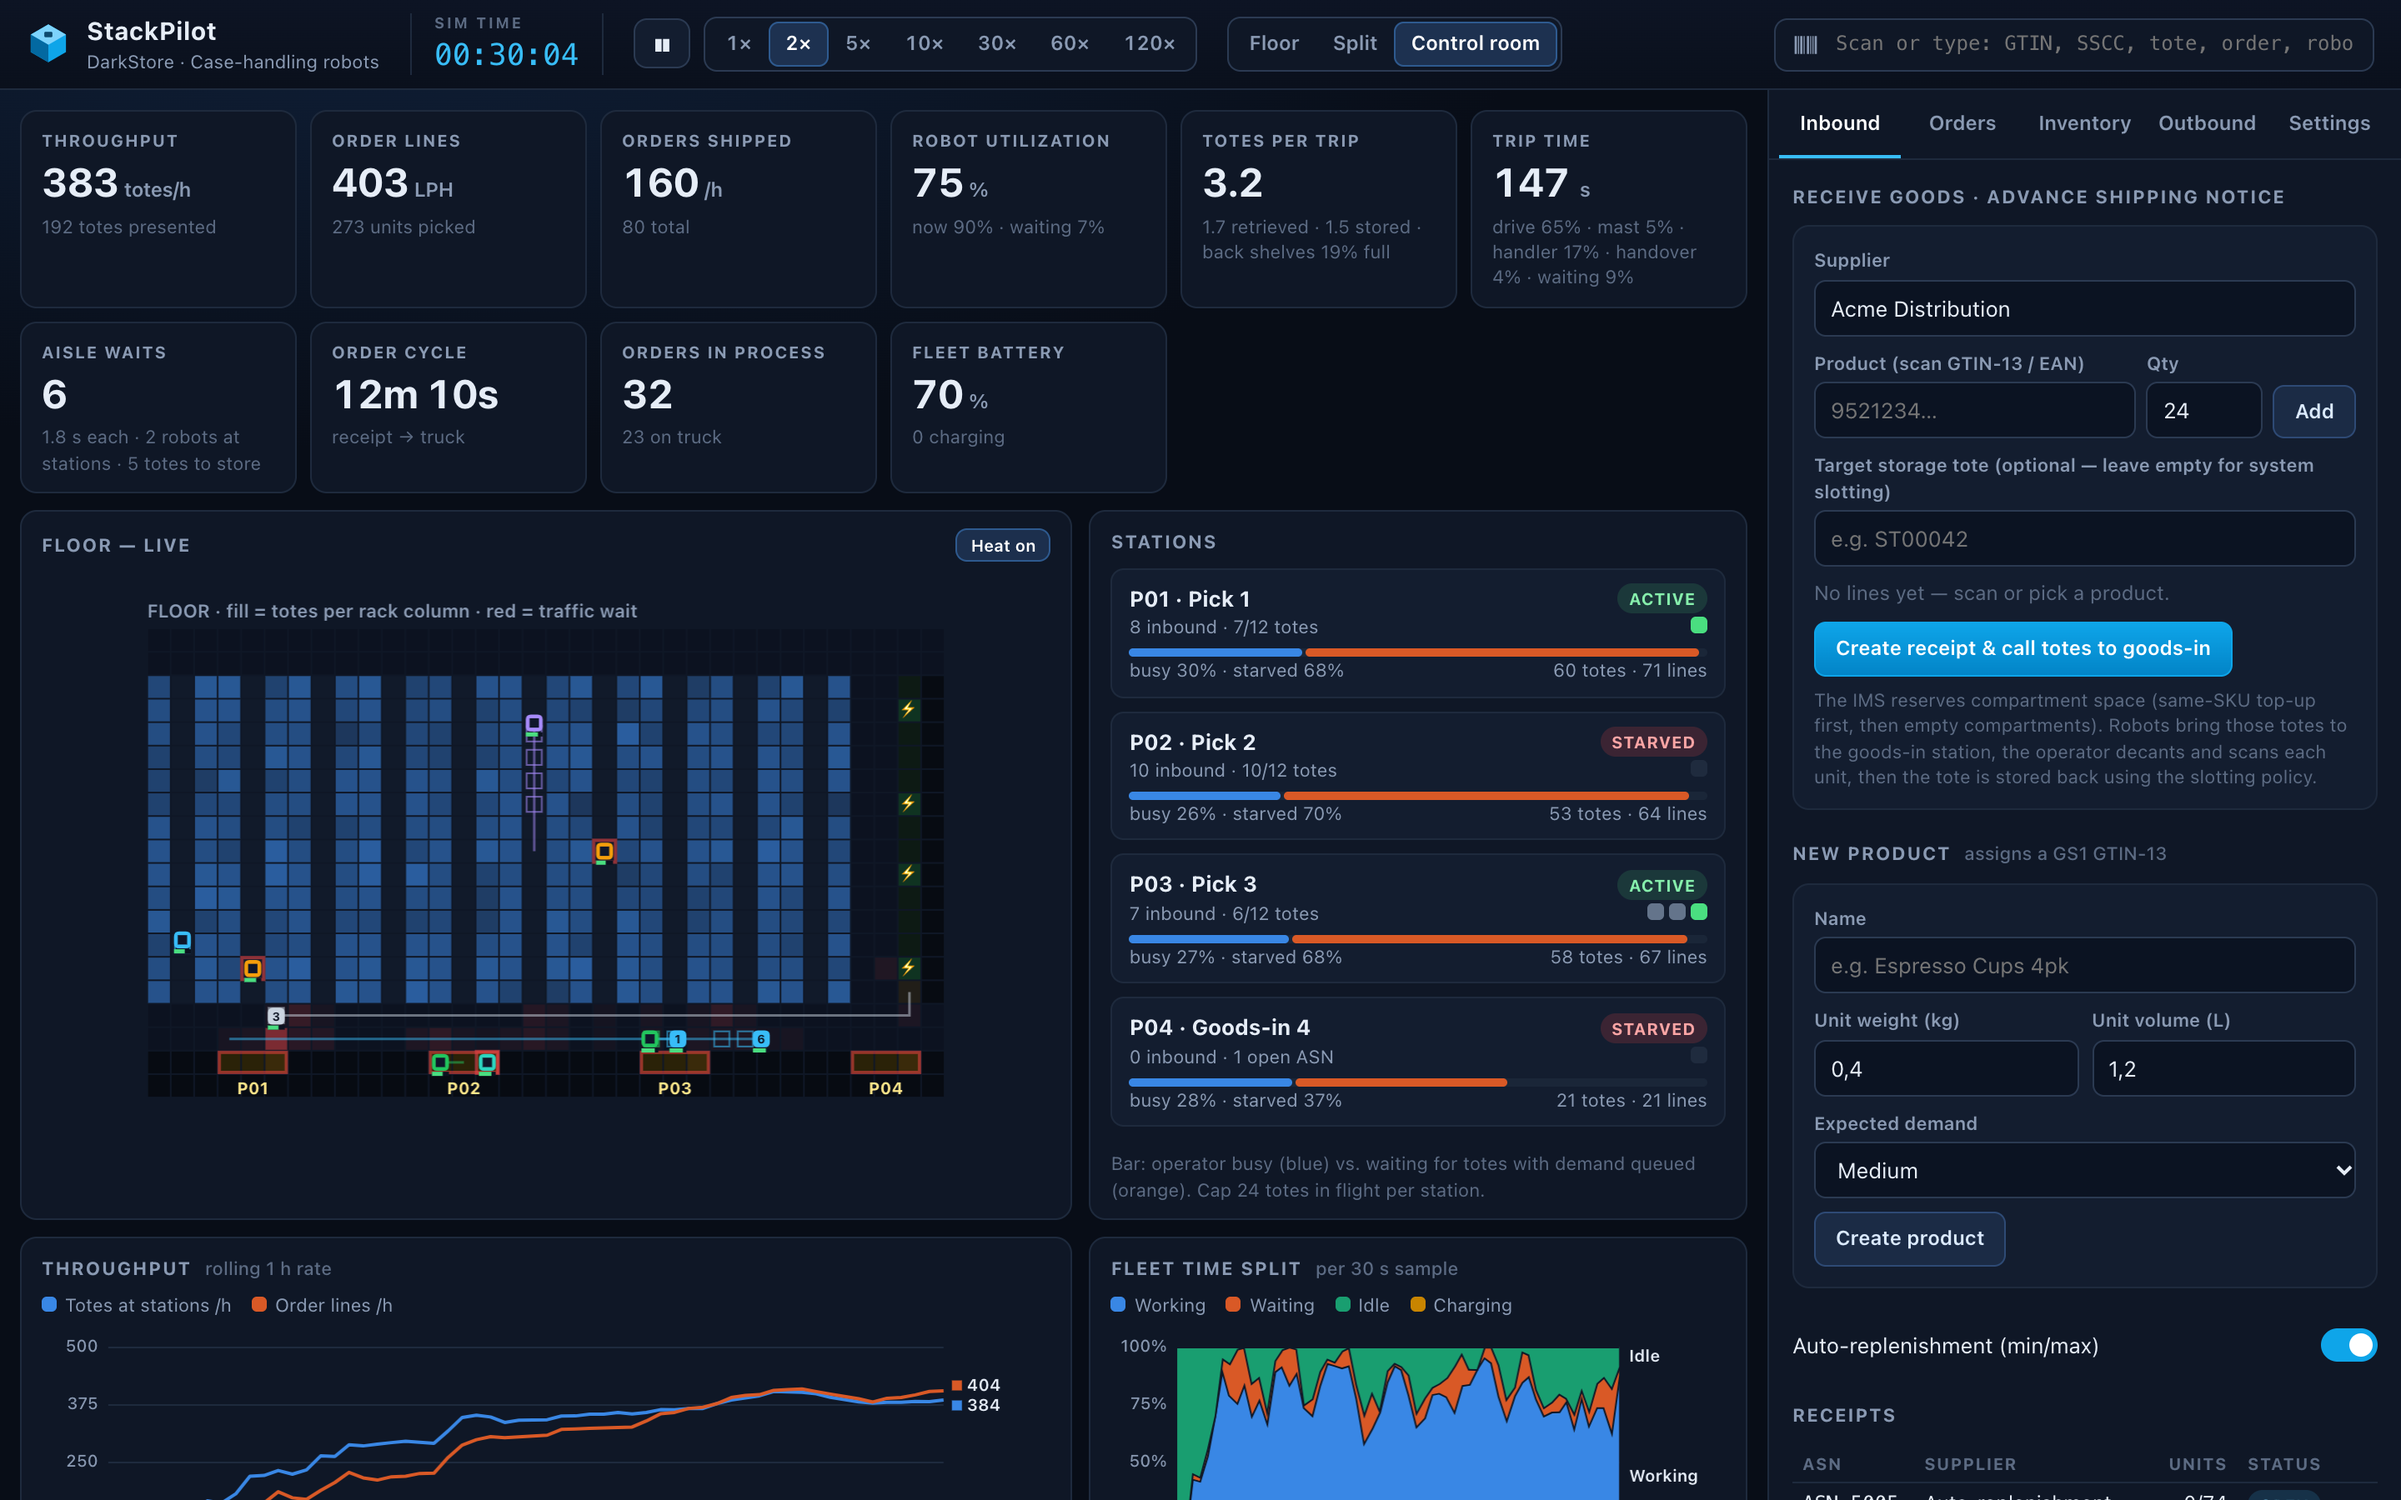
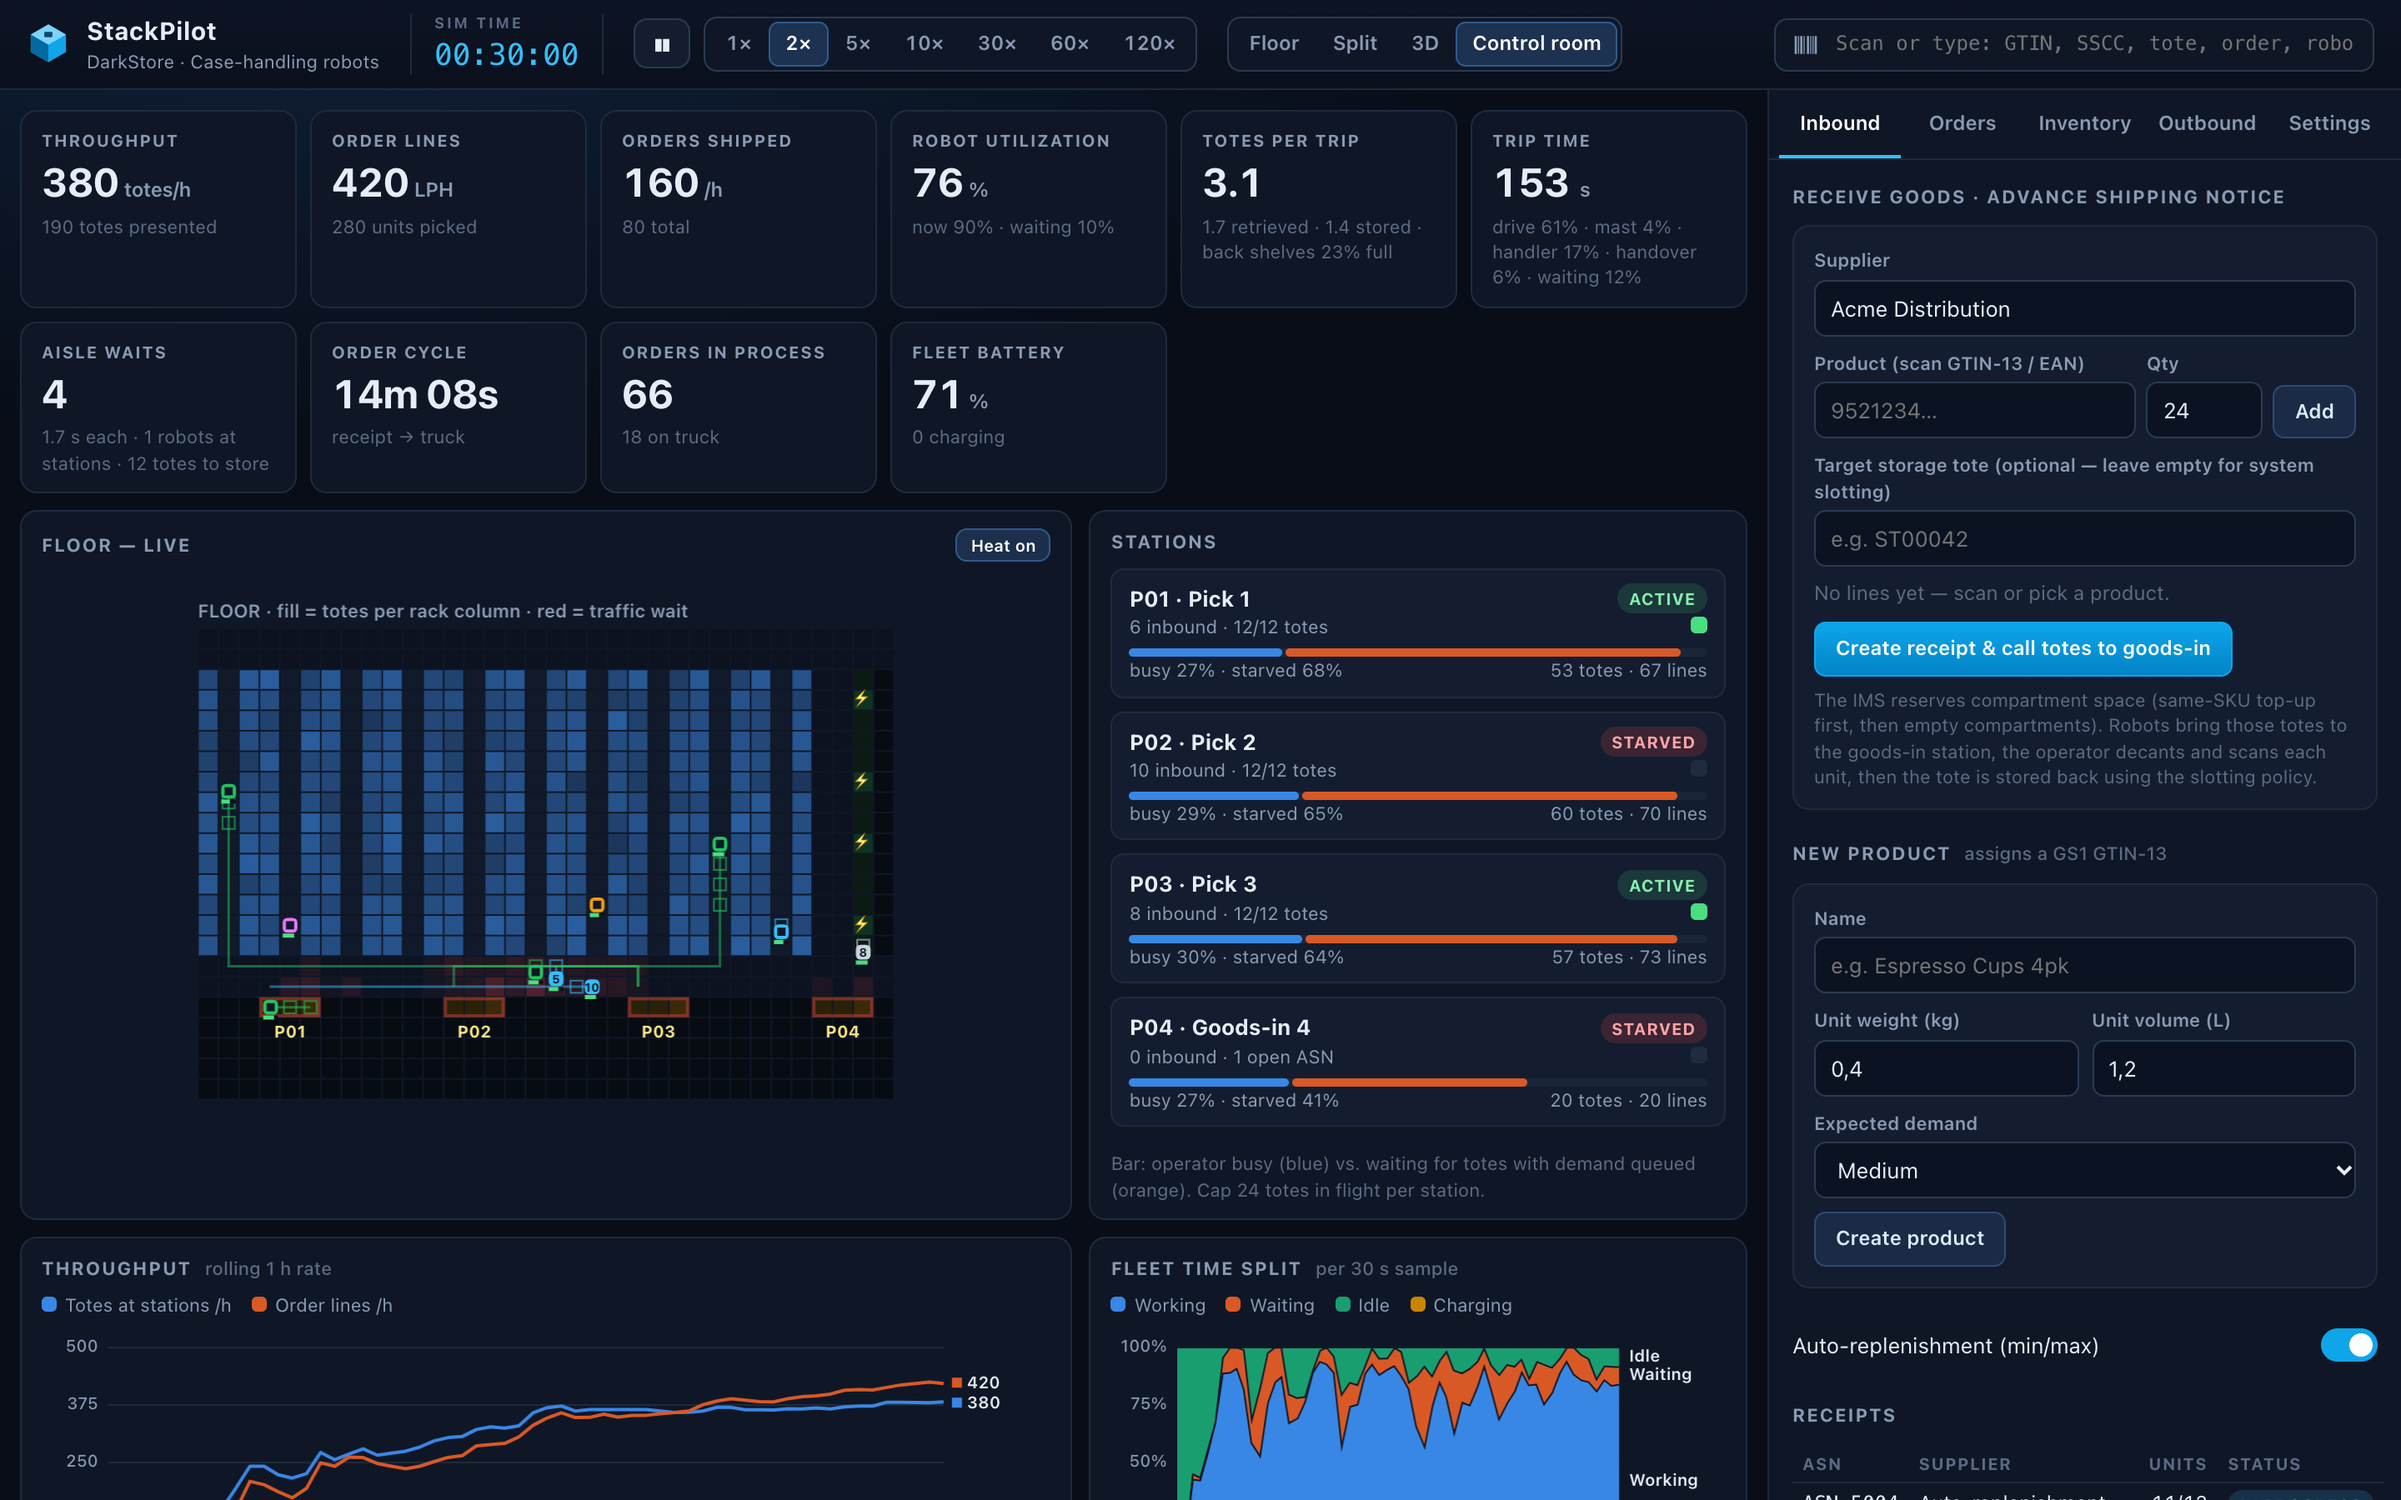
docs: retake RailRunner, SkyStack and StackPilot screenshots for the new conveyors

diff --git a/README.md b/README.md
@@ -204,7 +204,7 @@ velocity policy, busy pods end up near the stations.
 |---|---|
 | ![Close-up of the aisle fronts: shuttles carrying totes, lifts and the pick stations](docs/screenshots/rail-closeup.png) | ![RailRunner control room: lift utilization, shuttle cycles and a levels-by-aisles map](docs/screenshots/rail-control.png) |
 | **Close-up:** shuttles bring totes to the aisle front, lifts take them down to the stations | **Control room:** lift utilization, shuttle cycles and a map of every level of every aisle |
-| ![RailRunner in 3D: racking with a shuttle on every level, lift towers and the stations](docs/screenshots/rail-3d.png) | ![Close-up in 3D: shuttles in the levels, a lift carriage and the pre-zone conveyor](docs/screenshots/rail-3d-closeup.png) |
+| ![RailRunner in 3D: racking with a shuttle on every level, lift towers and the stations](docs/screenshots/rail-3d.png) | ![Close-up in 3D: lift platforms at the aisle fronts and the one-way pre-zone loop to the stations](docs/screenshots/rail-3d-closeup.png) |
 | **3D:** the racking, cyan lift towers at the aisle fronts and the stations | **3D close-up:** orange shuttles on every level, a lift and the conveyors |
 
 **Racking.** Aisles of racking with totes single deep on both sides, several levels high. The two
@@ -281,7 +281,7 @@ aisle-changing cranes and a limit on the I/O conveyor.
 |---|---|
 | ![Close-up of the robots: masts with back shelves carrying totes, handlers reaching into the racking](docs/screenshots/acr-closeup.png) | ![StackPilot control room: totes per trip, trip time split, aisle waits and the floor map](docs/screenshots/acr-control.png) |
 | **Close-up:** robots carry several totes on their back shelves; the handler runs up the mast at each stop | **Control room:** totes per trip, the fleet's time split, aisle waits and the live floor map |
-| ![StackPilot in 3D: shelving aisles, robots with tall masts and the stations in front](docs/screenshots/acr-3d.png) | ![Close-up in 3D: robots with their back shelves at the stations and in the aisles](docs/screenshots/acr-3d-closeup.png) |
+| ![StackPilot in 3D: shelving aisles, robots with tall masts and the stations in front](docs/screenshots/acr-3d.png) | ![Close-up in 3D: a robot handing totes onto a station's conveyor, its return conveyor alongside](docs/screenshots/acr-3d-closeup.png) |
 | **3D:** shelving, robots with masts, queue lanes and stations | **3D close-up:** robots with back shelves, the handler on the mast |
 
 StackPilot stores totes in racking like RailRunner and SkyStack, but its machines are battery robots
